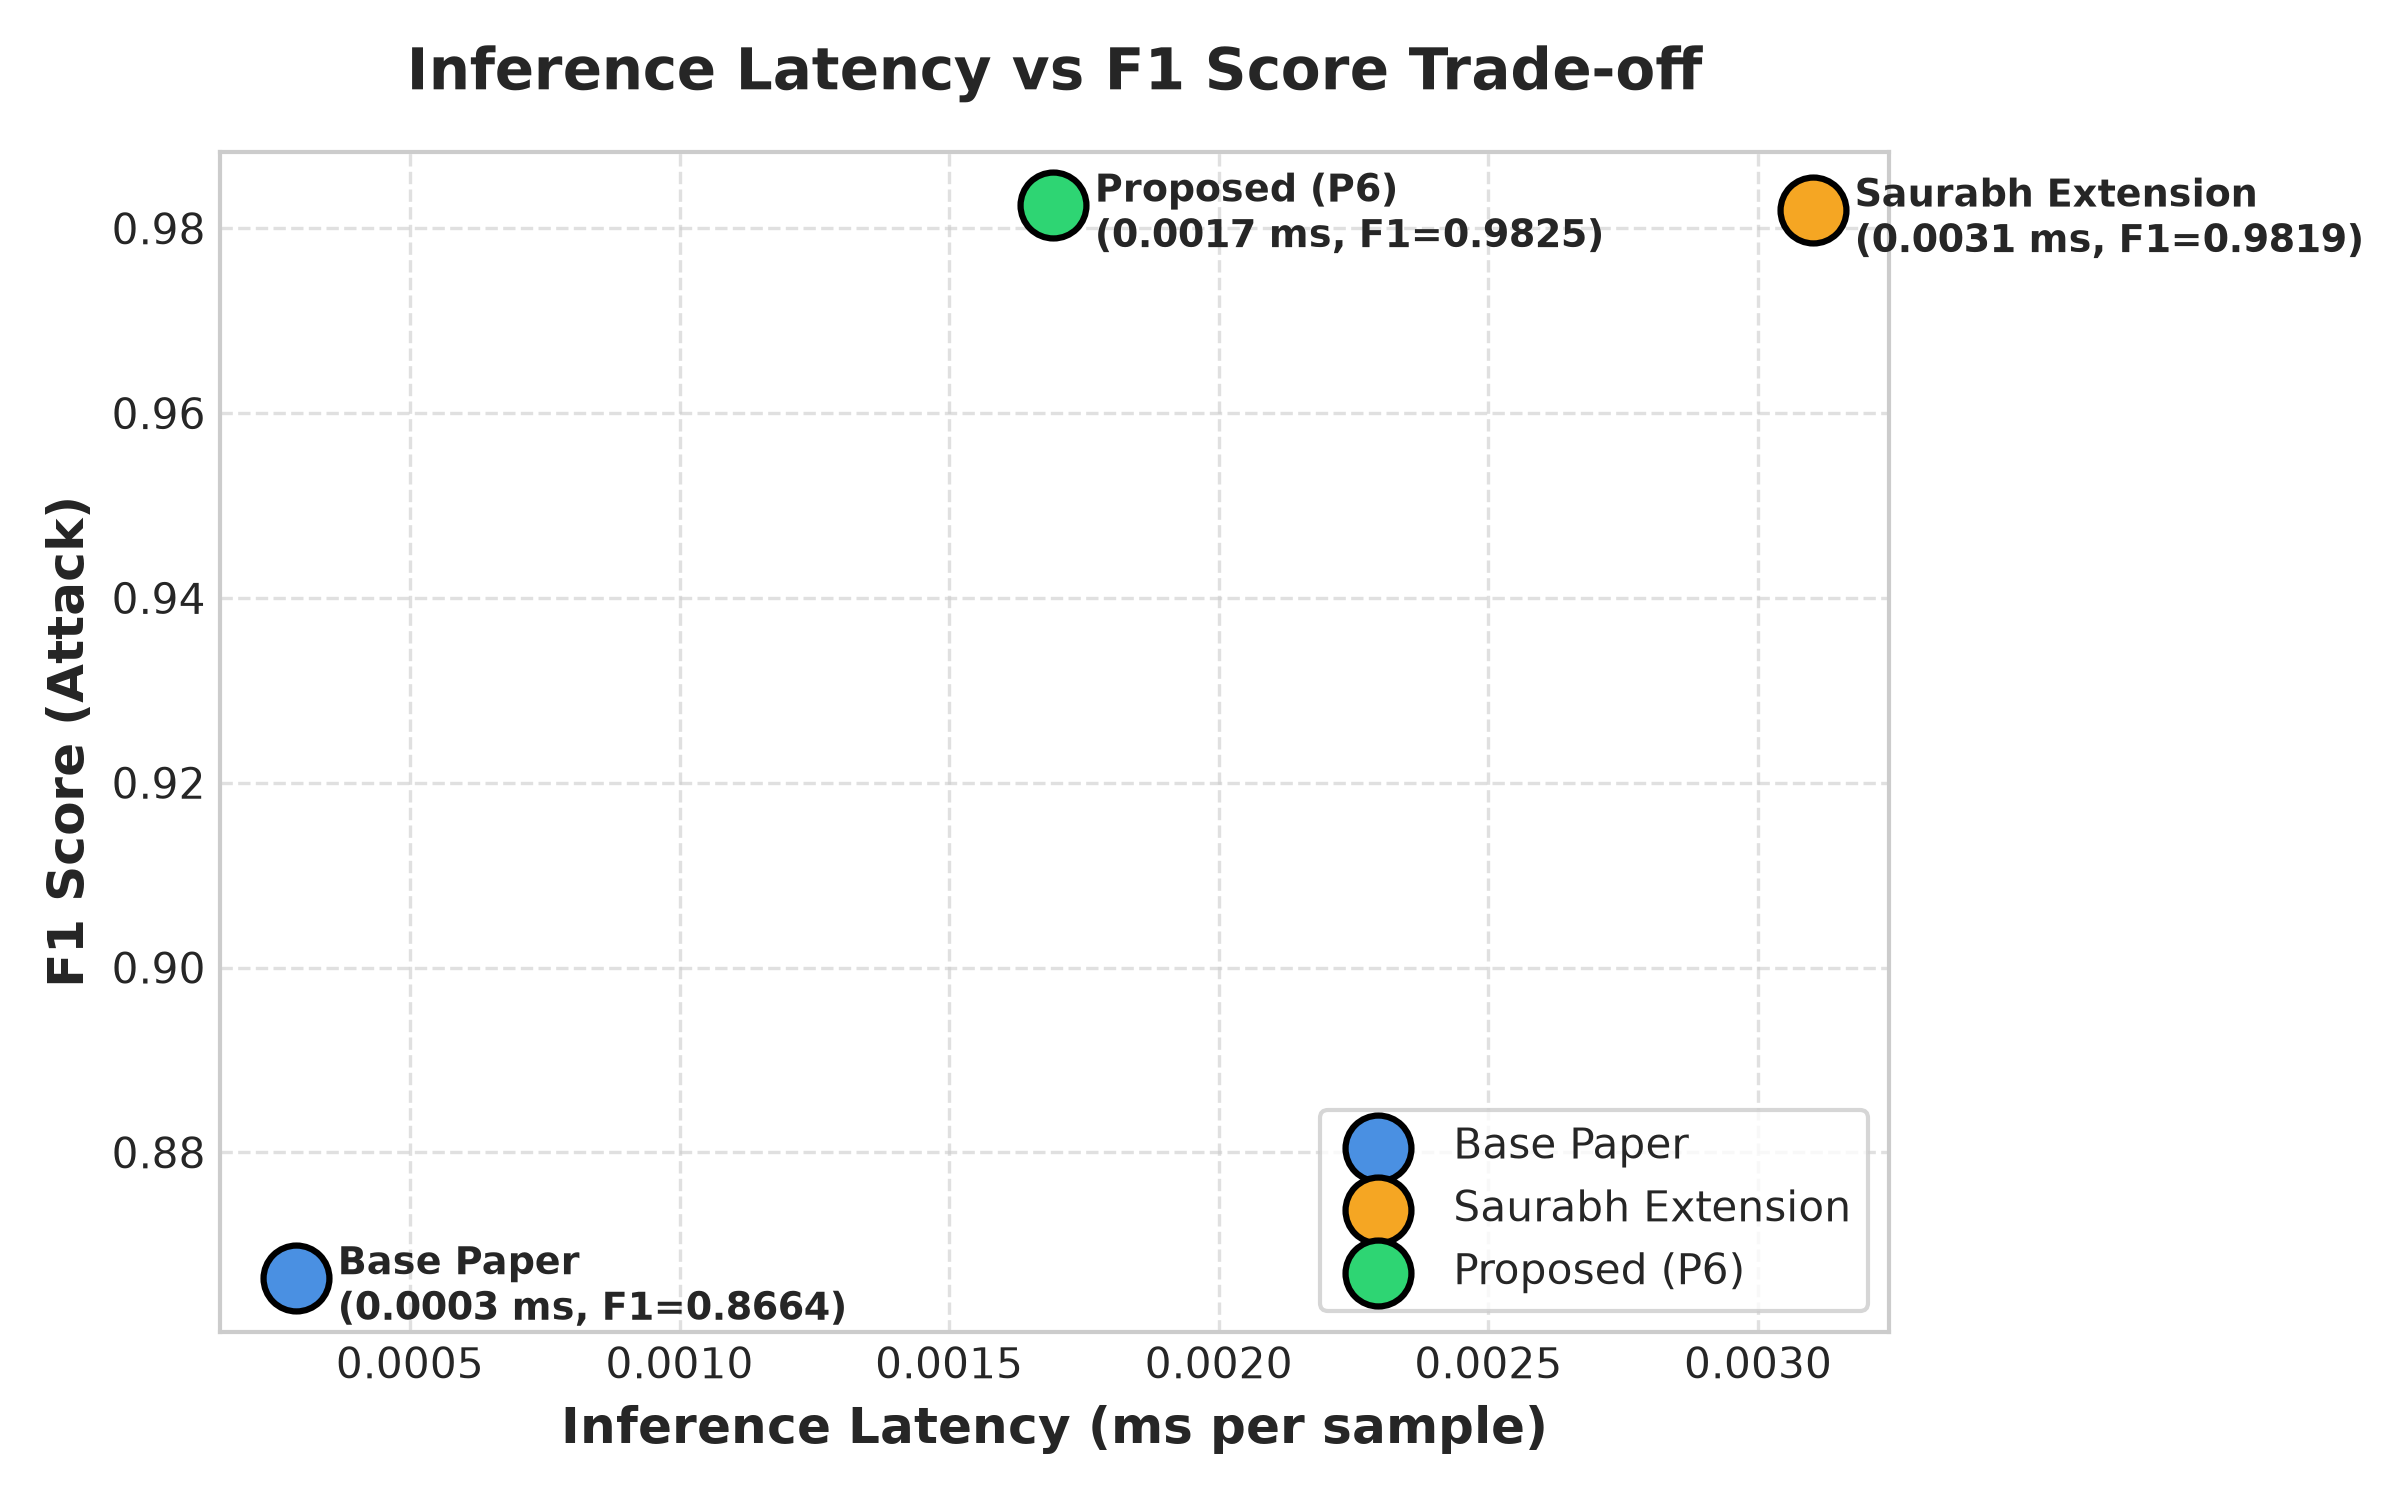
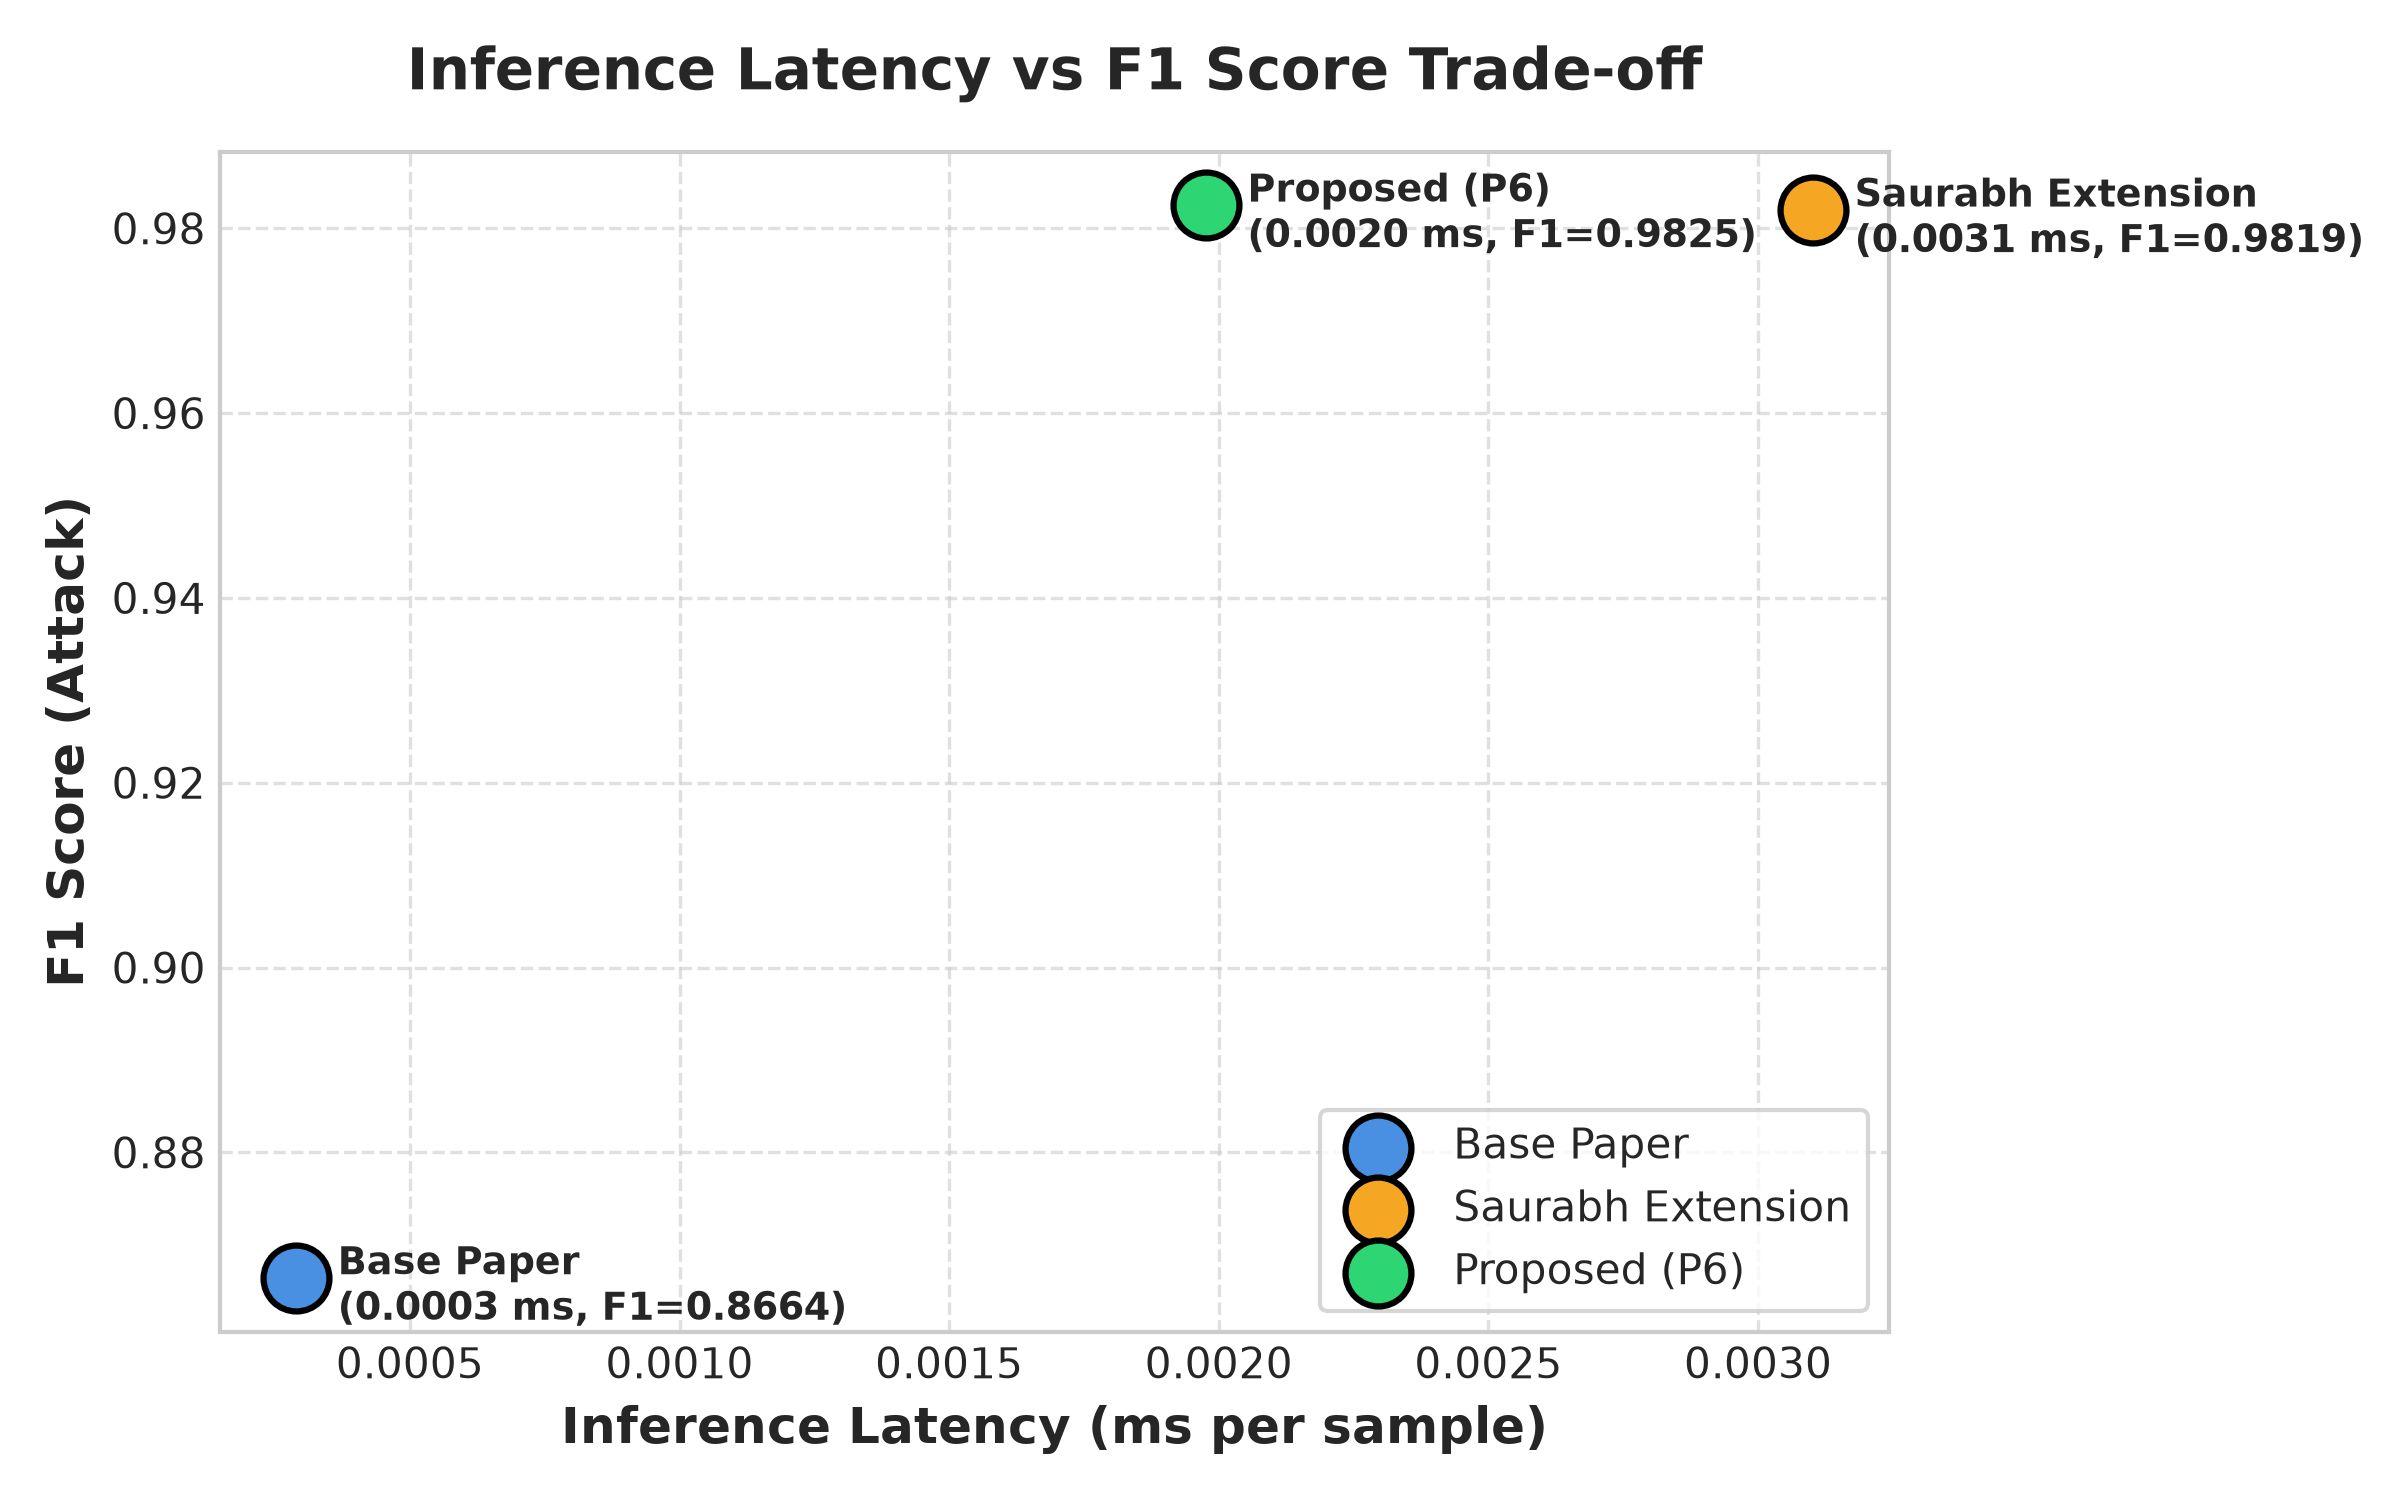
Finalize evaluation deliverables, add teammate summary briefing document

Changed region(s): [[0.4062, 0.092, 0.7188, 0.184]]

diff --git a/src/proposed/proposed_xgboost.py b/src/proposed/proposed_xgboost.py
@@ -132,6 +132,17 @@ class ProposedXGBoost:
     shap_drift_threshold: float = 0.7
 
     # ------------------------------------------------------------------
+    # Ablation Flags
+    # ------------------------------------------------------------------
+
+    use_ewma: bool = True
+    use_cusum: bool = True
+    use_constrained_threshold: bool = True
+    use_fast_shap: bool = True
+    use_distillation: bool = True
+    eval_student_only: bool = False
+
+    # ------------------------------------------------------------------
     # Distillation
     # ------------------------------------------------------------------
 
@@ -246,6 +257,32 @@ class ProposedXGBoost:
         default=0,
         init=False,
     )
+
+    # ------------------------------------------------------------------
+    # Configuration Factory
+    # ------------------------------------------------------------------
+
+    @classmethod
+    def for_config(cls, config_name: str = "P6", seed: int = 42, **kwargs) -> "ProposedXGBoost":
+        cfg = (config_name or "P6").upper()
+        if cfg == "P0":
+            return cls(seed=seed, use_ewma=False, use_cusum=False, use_constrained_threshold=False, use_fast_shap=False, use_distillation=False, **kwargs)
+        elif cfg == "P1":
+            return cls(seed=seed, use_ewma=True, use_cusum=False, use_constrained_threshold=False, use_fast_shap=False, use_distillation=False, **kwargs)
+        elif cfg == "P2":
+            return cls(seed=seed, use_ewma=True, use_cusum=True, use_constrained_threshold=False, use_fast_shap=False, use_distillation=False, **kwargs)
+        elif cfg == "P3":
+            return cls(seed=seed, use_ewma=True, use_cusum=True, use_constrained_threshold=True, use_fast_shap=False, use_distillation=False, **kwargs)
+        elif cfg == "P4":
+            return cls(seed=seed, use_ewma=True, use_cusum=True, use_constrained_threshold=True, use_fast_shap=True, use_distillation=False, **kwargs)
+        elif cfg == "P5":
+            return cls(seed=seed, use_ewma=True, use_cusum=True, use_constrained_threshold=True, use_fast_shap=True, use_distillation=True, **kwargs)
+        elif cfg == "P6":
+            return cls(seed=seed, use_ewma=True, use_cusum=True, use_constrained_threshold=True, use_fast_shap=True, use_distillation=True, **kwargs)
+        elif cfg == "P7":
+            return cls(seed=seed, use_ewma=True, use_cusum=True, use_constrained_threshold=True, use_fast_shap=True, use_distillation=True, eval_student_only=True, **kwargs)
+        else:
+            return cls(seed=seed, **kwargs)
 
     # ------------------------------------------------------------------
     # Initialization
@@ -553,33 +590,42 @@ class ProposedXGBoost:
         # 5. FPR-constrained threshold
         # --------------------------------------------------------------
 
-        p_val = self.model.predict_proba(
-            X_val_model
-        )[:, 1]
+        if self.use_constrained_threshold:
+            p_val = self.model.predict_proba(
+                X_val_model
+            )[:, 1]
 
-        self.constrained_threshold.fit(
-            y_val,
-            p_val,
-        )
+            self.constrained_threshold.fit(
+                y_val,
+                p_val,
+            )
 
-        self.selected_threshold_ = (
-            self.constrained_threshold.threshold_
-        )
-
-        self.validation_threshold_metrics_ = {
-            "threshold": float(
+            self.selected_threshold_ = (
                 self.constrained_threshold.threshold_
-            ),
-            "validation_recall": float(
-                self.constrained_threshold.recall_
-            ),
-            "validation_fpr": float(
-                self.constrained_threshold.fpr_
-            ),
-            "fpr_alpha": float(
-                self.fpr_alpha
-            ),
-        }
+            )
+
+            self.validation_threshold_metrics_ = {
+                "threshold": float(
+                    self.constrained_threshold.threshold_
+                ),
+                "validation_recall": float(
+                    self.constrained_threshold.recall_
+                ),
+                "validation_fpr": float(
+                    self.constrained_threshold.fpr_
+                ),
+                "fpr_alpha": float(
+                    self.fpr_alpha
+                ),
+            }
+        else:
+            self.selected_threshold_ = 0.50
+            self.validation_threshold_metrics_ = {
+                "threshold": 0.50,
+                "validation_recall": 1.0,
+                "validation_fpr": 0.0,
+                "fpr_alpha": float(self.fpr_alpha),
+            }
 
         # --------------------------------------------------------------
         # 6. Lightweight SHAP reference
@@ -623,7 +669,7 @@ class ProposedXGBoost:
         # 8. Knowledge distillation
         # --------------------------------------------------------------
 
-        if self.enable_distillation:
+        if self.use_distillation and self.enable_distillation:
 
             if self.student_threshold is None:
                 effective_student_threshold = (
@@ -680,6 +726,8 @@ class ProposedXGBoost:
         Ground-truth labels may be used during training to identify
         confirmed-benign windows for baseline adaptation.
         """
+        if not self.use_ewma:
+            return X
 
         output = np.zeros(
             (
@@ -754,6 +802,9 @@ class ProposedXGBoost:
         Adaptation is deliberately handled separately.
         """
 
+        if not self.use_ewma:
+            return X
+
         output = np.zeros(
             (
                 X.shape[0],
@@ -802,6 +853,8 @@ class ProposedXGBoost:
 
         Validation labels are NOT used for EWMA updates.
         """
+        if not self.use_ewma:
+            return
 
         for start, end in self._window_ranges(
             X,
@@ -888,6 +941,9 @@ class ProposedXGBoost:
             block_ids,
             ewma_baseline,
         )
+
+        if self.eval_student_only and self.distilled_edge_model is not None:
+            return self.distilled_edge_model.predict_proba(X_model)
 
         return self.model.predict_proba(
             X_model

diff --git a/run_experiment.py b/run_experiment.py
@@ -202,7 +202,8 @@ def run_proposed_experiment(args: argparse.Namespace) -> Dict[str, Any]:
     config_name = args.config or "P6"
     bundle, feature_set = load_bundle_for_dataset(args, feature_set="saurabh49", balance="class_weight")
 
-    model = ProposedXGBoost(
+    model = ProposedXGBoost.for_config(
+        config_name=config_name,
         seed=args.seed,
     )
 

diff --git a/results/tables/proposed_ablation_matrix.md b/results/tables/proposed_ablation_matrix.md
@@ -1,10 +1,10 @@
 | ID | Configuration | F1 | FPR | Precision | Recall | Latency (ms) | Model Size (KB) |
 |---|---|---|---|---|---|---|---|
-| **P0** | Ablation P0 | 0.9825 | 0.0016 | 0.9768 | 0.9882 | 0.0013 | 0.0 |
-| **P1** | Ablation P1 | 0.9825 | 0.0016 | 0.9768 | 0.9882 | 0.0016 | 0.0 |
-| **P2** | Ablation P2 | 0.9825 | 0.0016 | 0.9768 | 0.9882 | 0.0012 | 0.0 |
-| **P3** | Ablation P3 | 0.9825 | 0.0016 | 0.9768 | 0.9882 | 0.0013 | 0.0 |
-| **P4** | Ablation P4 | 0.9825 | 0.0016 | 0.9768 | 0.9882 | 0.0014 | 0.0 |
-| **P5** | Ablation P5 | 0.9825 | 0.0016 | 0.9768 | 0.9882 | 0.0013 | 0.0 |
-| **P6** | Ablation P6 | 0.9825 | 0.0016 | 0.9768 | 0.9882 | 0.0017 | 0.0 |
+| **P0** | Ablation P0 | 0.8291 | 0.0212 | 0.7451 | 0.9345 | 0.0012 | 0.0 |
+| **P1** | Ablation P1 | 0.9819 | 0.0017 | 0.9753 | 0.9886 | 0.0028 | 0.0 |
+| **P2** | Ablation P2 | 0.9819 | 0.0017 | 0.9753 | 0.9886 | 0.0025 | 0.0 |
+| **P3** | Ablation P3 | 0.9825 | 0.0016 | 0.9768 | 0.9882 | 0.0022 | 0.0 |
+| **P4** | Ablation P4 | 0.9825 | 0.0016 | 0.9768 | 0.9882 | 0.0023 | 0.0 |
+| **P5** | Ablation P5 | 0.9825 | 0.0016 | 0.9768 | 0.9882 | 0.0019 | 0.0 |
+| **P6** | Ablation P6 | 0.9825 | 0.0016 | 0.9768 | 0.9882 | 0.0020 | 0.0 |
 | **P7** | Ablation P7 | 0.9825 | 0.0016 | 0.9768 | 0.9882 | 0.0019 | 0.0 |
